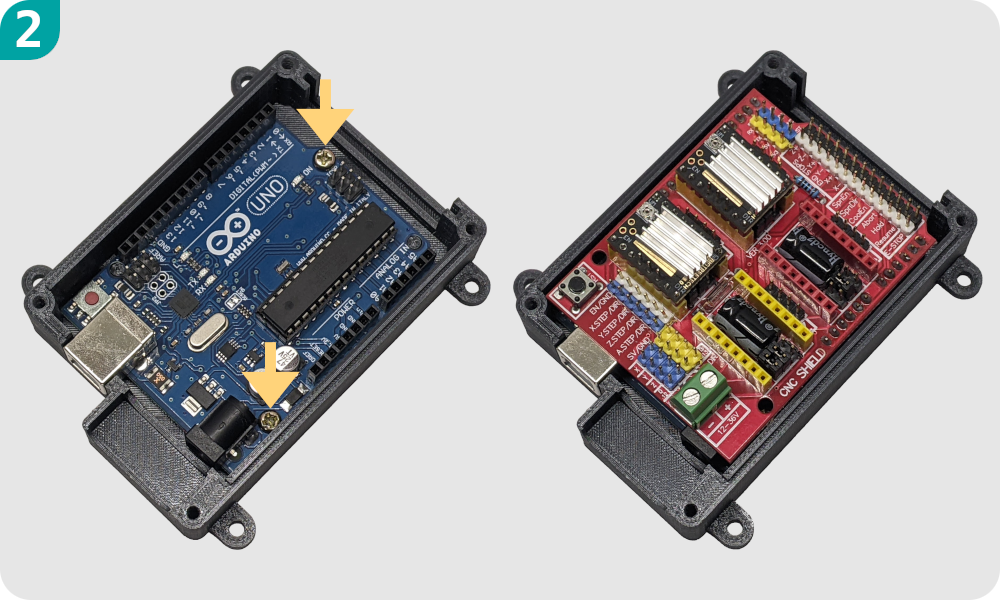
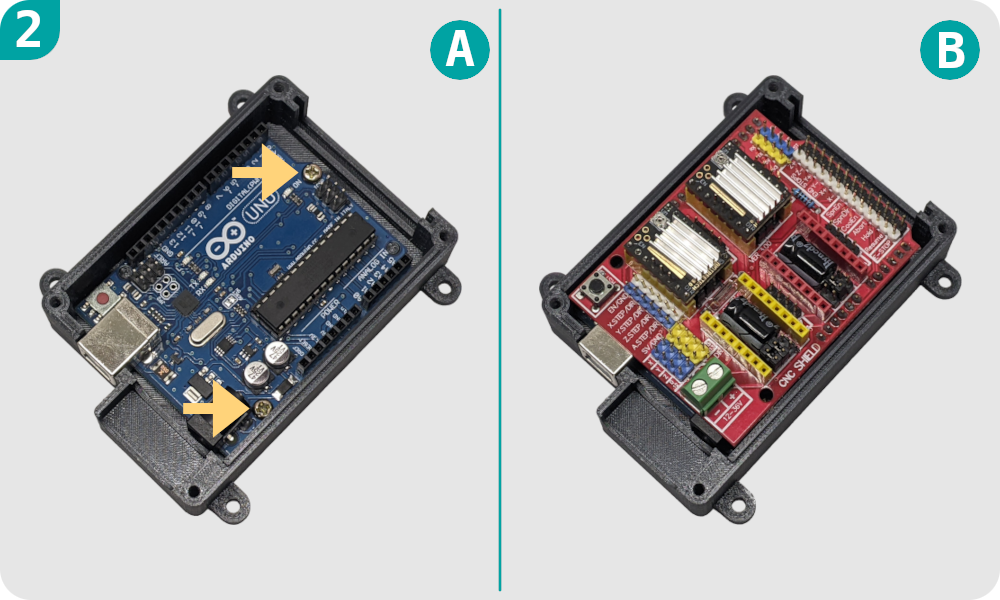
Step 3 added to assembly

diff --git a/README.md b/README.md
@@ -33,8 +33,10 @@ Please refer the Thingiverse page to pick the right STL for your needs and for p
 # Assembly
 1. Tap M3 threads into the bottom part's four corner holes and the two Arduino mounting points (idicated by yellow arrows). A regular M3 tap drill may be sufficient for the corner holes, but not for the mounting points. I simply got a M3 screw and cut a vertical notch into it with a hacksaw.
 ![Raw patch panel](https://raw.githubusercontent.com/mosomate/uno-cnc-enclosure/refs/heads/main/docs/assembly_1.png)
-2. Mount the Arduino UNO with the **M3x4** screws (mounting point are indicated with yellow arrows). Then, attach the CNC shield.
+2. Mount the Arduino UNO with the **M3x4** screws (mounting points are indicated with yellow arrows) **(A)**. Then, attach the CNC shield **(B)**.
 ![Raw patch panel](https://raw.githubusercontent.com/mosomate/uno-cnc-enclosure/refs/heads/main/docs/assembly_2.png)
+2. Solder the connectors to the patch panel's PCB. See an example layout below **(A)**. Wire the header pins on the CNC shield to the patch panel. Oh, boy... This won't be easy. After trying many options I came up with a **recommedation**. For each cable: **1.** cut off the end of the contact to make it shorter. **2.** Strip the wire and fold the conductor under the insulation. **3.** Crimp the contact to the wire. **4** Put a piece of heatshrink to the contact for safety. Check the steps below **(B)**.
+![Raw patch panel](https://raw.githubusercontent.com/mosomate/uno-cnc-enclosure/refs/heads/main/docs/assembly_3.png)
 
 # License
 Shield: [![CC BY-NC 4.0][cc-by-nc-shield]][cc-by-nc]
